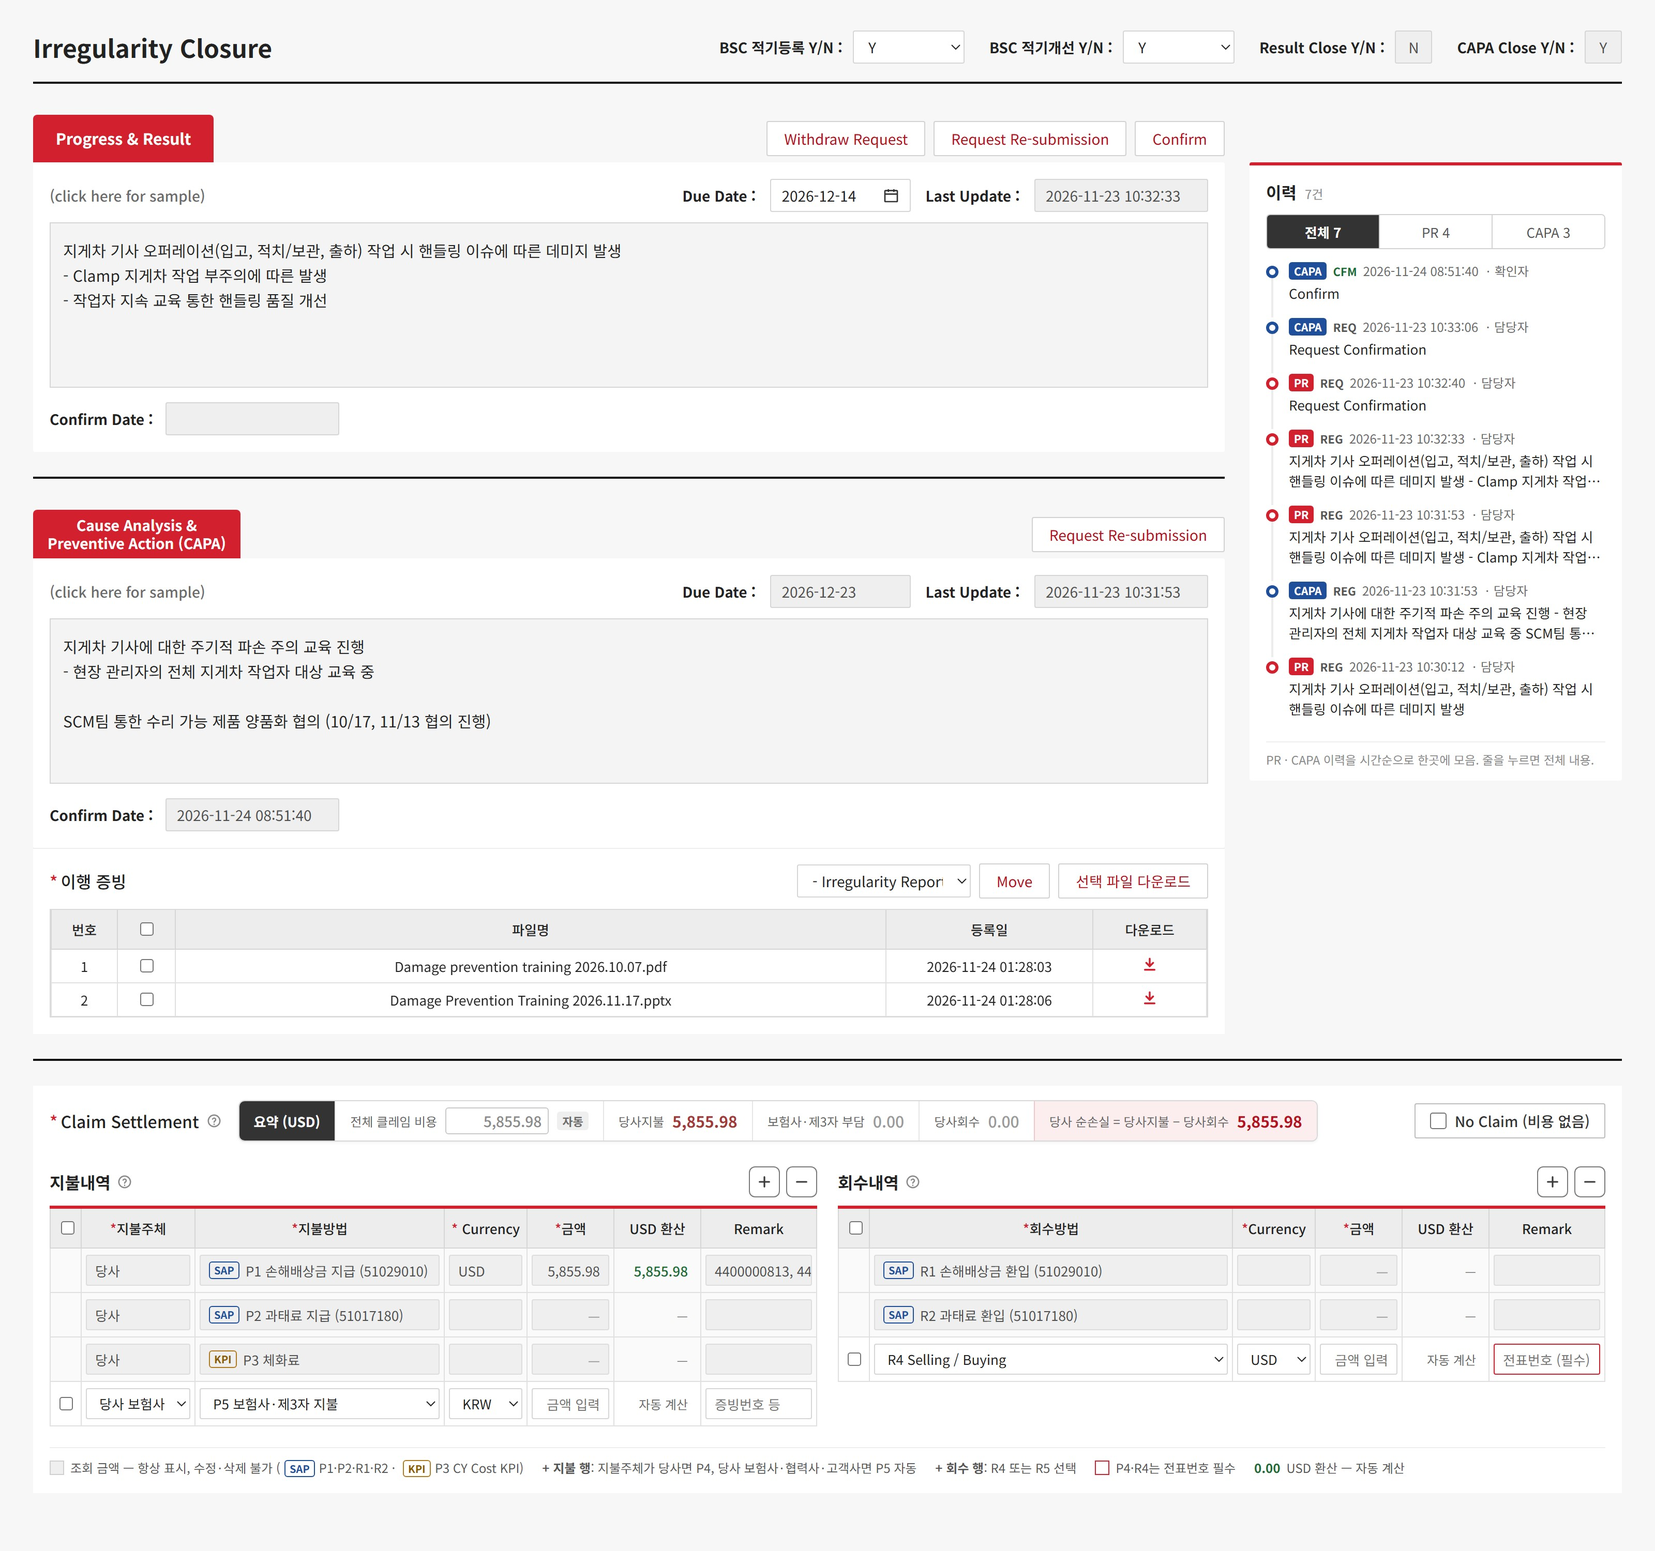
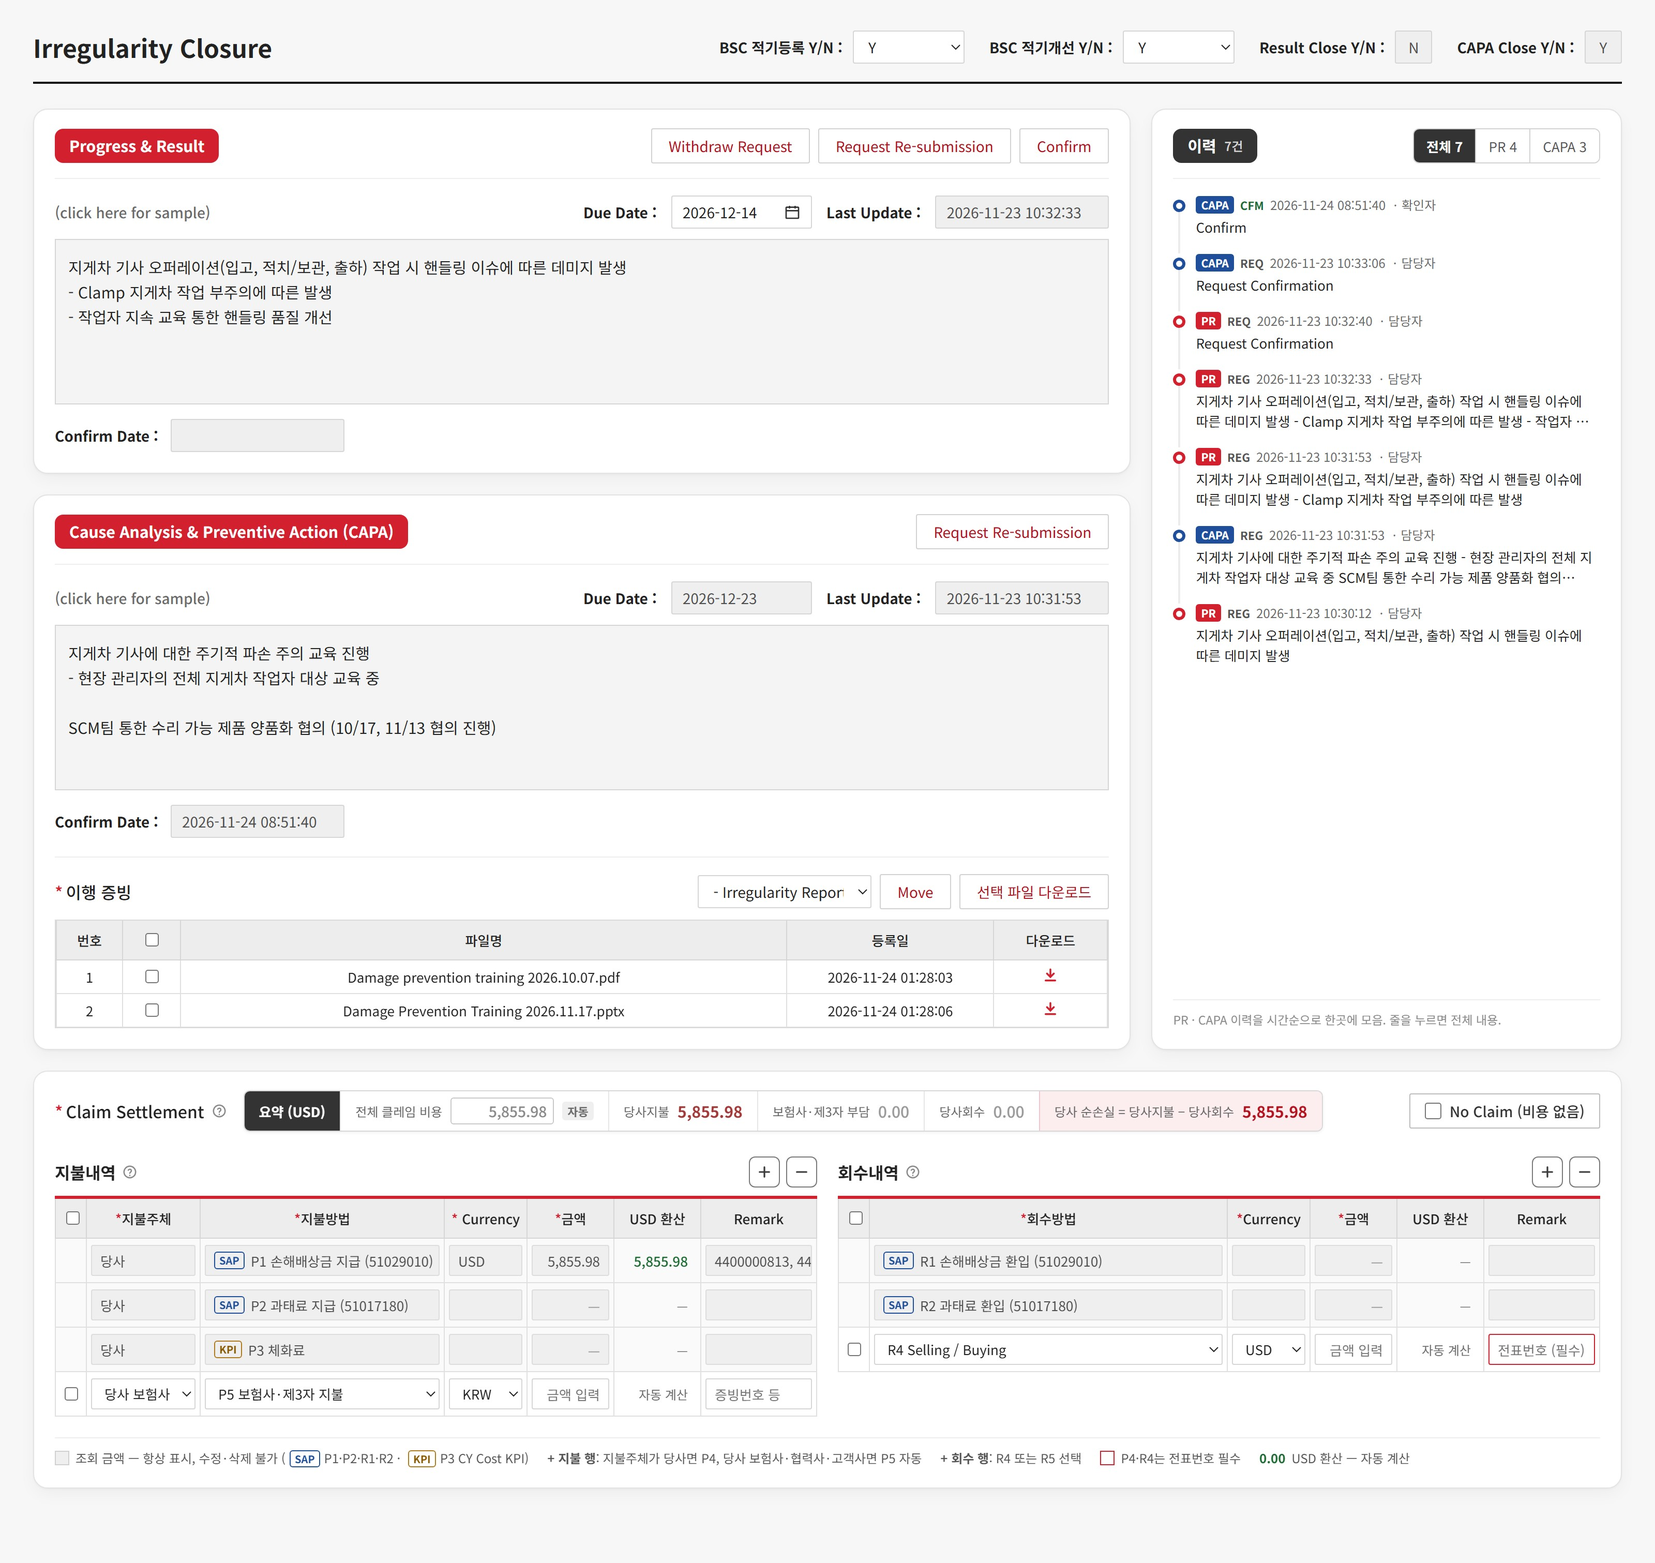
qms-claim-closure sidebar: rounded zones, 7:3 / 6:4 ratio, history not floating

diff --git a/share/qms-claim-closure-sidebar.html b/share/qms-claim-closure-sidebar.html
@@ -75,38 +75,39 @@ a{color:#B3121F}a:hover{color:#7E0C16}
 .sw{display:inline-block;width:14px;height:14px;border:1px solid #D0D0D0;vertical-align:-2px;margin-right:6px}
 
 
-.sbl{display:grid;grid-template-columns:minmax(0,1fr) 360px;gap:24px;align-items:start;padding:30px 0 0}
-.mainc{min-width:0}
-.colhead{display:flex;flex-wrap:wrap;align-items:flex-end;justify-content:space-between;gap:8px 10px;min-height:46px}
-.colhead .btns{display:flex;flex-wrap:wrap;justify-content:flex-end;gap:8px}
-.colhead .btn{margin-bottom:6px}
-.confirm{display:flex;align-items:center;gap:12px;margin:14px 0 0}
 .flow{display:flex;flex-direction:column}
-.csw{margin-top:24px;padding-top:24px;border-top:2px solid #111}
-.flow.cs-top .csw{order:-1;margin-top:30px;padding-top:0;border-top:0}
-.flow.cs-top .sbl{margin-top:24px;border-top:2px solid #111}
-.pos{display:inline-flex;align-items:center;gap:8px;margin-top:12px;font-size:13px;color:#555}
-.pos .segb{display:inline-flex;border:1px solid #C9C9C9;border-radius:4px;overflow:hidden}
-.pos button{font:inherit;font-size:13px;height:32px;padding:0 14px;border:0;background:#fff;color:#444;cursor:pointer}
-.pos button+button{border-left:1px solid #C9C9C9}.pos button[aria-pressed="true"]{background:#333;color:#fff;font-weight:700}
-.pos button:focus-visible{outline:2px solid #1F4E9A;outline-offset:-2px}
-.capasec{margin-top:24px;padding-top:30px;border-top:2px solid #111}
-.evsec{background:#fff;padding:14px 16px 16px;border-top:1px solid #EEEEEE}
+.sbl{display:grid;grid-template-columns:minmax(0,7fr) minmax(0,3fr);gap:20px;align-items:stretch;margin-top:24px}
+.flow.r64 .sbl{grid-template-columns:minmax(0,6fr) minmax(0,4fr)}
+.mainc{display:flex;flex-direction:column;gap:20px;min-width:0}
+.csw{margin-top:20px}
+.flow.cs-top .csw{order:-1;margin-top:24px}
+.flow.cs-top .sbl{margin-top:20px}
+.zone{background:#fff;border:1px solid #E3E3E3;border-radius:14px;padding:18px 20px 20px;box-shadow:0 1px 2px rgba(0,0,0,0.04),0 6px 16px rgba(0,0,0,0.04);min-width:0}
+.zhead{display:flex;flex-wrap:wrap;align-items:center;justify-content:space-between;gap:8px 10px;padding-bottom:14px;margin-bottom:16px;border-bottom:1px solid #EEEEEE}
+.zhead .btns{display:flex;flex-wrap:wrap;justify-content:flex-end;gap:8px}
+.zt{display:inline-flex;align-items:center;gap:8px;font-size:15px;font-weight:700;color:#fff;background:#D3202F;border-radius:8px;padding:7px 14px;line-height:1.25}
+.zt.dark{background:#333}.zt .cnt{font-size:12px;font-weight:500;opacity:.8}
+.zone .panel{padding:0;background:none}
+.zone section[aria-label="Claim Settlement"]{padding:0 !important;background:none !important;border:0 !important}
+.confirm{display:flex;align-items:center;gap:12px;margin:14px 0 0}
+.evsec{margin-top:18px;padding-top:16px;border-top:1px solid #EEEEEE}
 .evhead{display:flex;flex-wrap:wrap;align-items:center;justify-content:space-between;gap:8px 12px;margin-bottom:10px}
 .evbox{max-height:var(--ev-h,112px);overflow-y:auto;border:1px solid #DADADA}
 .evbox .grid{border:0}.evbox .grid th{position:sticky;top:0;z-index:1}
 .evbox .grid td:nth-child(3){white-space:nowrap;overflow:hidden;text-overflow:ellipsis}
-.side{position:sticky;top:52px;align-self:start;padding-top:46px}
-.sidecard{background:#fff;border-top:3px solid #D3202F;border-radius:2px;padding:14px 16px 12px;display:flex;flex-direction:column;max-height:calc(100vh - 120px)}
-.sidehead{display:flex;align-items:baseline;gap:8px;margin-bottom:10px}
-.sidehead h2{margin:0;font-size:16px;font-weight:700}.sidehead .cnt{font-size:12px;color:#8A8A8A}
-.seg{display:flex;border:1px solid #D2D2D2;border-radius:4px;overflow:hidden;margin-bottom:12px}
-.seg button{flex:1;font:inherit;font-size:13px;height:32px;border:0;background:#fff;color:#555;cursor:pointer}
+.pos{display:inline-flex;align-items:center;gap:8px;margin:12px 16px 0 0;font-size:13px;color:#555}
+.pos .segb{display:inline-flex;border:1px solid #C9C9C9;border-radius:4px;overflow:hidden}
+.pos button{font:inherit;font-size:13px;height:32px;padding:0 14px;border:0;background:#fff;color:#444;cursor:pointer}
+.pos button+button{border-left:1px solid #C9C9C9}.pos button[aria-pressed="true"]{background:#333;color:#fff;font-weight:700}
+.pos button:focus-visible{outline:2px solid #1F4E9A;outline-offset:-2px}
+.side{display:flex;flex-direction:column}
+.seg{display:flex;border:1px solid #D2D2D2;border-radius:6px;overflow:hidden}
+.seg button{font:inherit;font-size:13px;height:32px;padding:0 12px;border:0;background:#fff;color:#555;cursor:pointer;white-space:nowrap}
 .seg button+button{border-left:1px solid #D2D2D2}
 .seg button[aria-pressed="true"]{background:#333;color:#fff;font-weight:700}
 .seg button:focus-visible{outline:2px solid #1F4E9A;outline-offset:-2px}
-.tl{list-style:none;margin:0;padding:0 2px 0 0;overflow-y:auto;flex:1 1 auto;min-height:0}
-.ti{position:relative;padding:0 0 14px 22px;cursor:pointer}
+.tl{list-style:none;margin:0;padding:0 4px 0 0;overflow-y:auto;flex:1 1 0px;height:0;min-height:240px}
+.ti{position:relative;padding:0 0 16px 22px;cursor:pointer}
 .ti::before{content:"";position:absolute;left:5px;top:12px;bottom:0;width:2px;background:#ECECEC}
 .ti:last-child::before{display:none}
 .ti .dot{position:absolute;left:0;top:4px;width:12px;height:12px;border-radius:50%;background:#fff;border:3px solid #D3202F;box-sizing:border-box}
@@ -119,18 +120,17 @@ a{color:#B3121F}a:hover{color:#7E0C16}
 .who::before{content:"· "}
 .tx{margin:3px 0 0;font-size:13px;line-height:1.5;color:#222;display:-webkit-box;-webkit-line-clamp:2;-webkit-box-orient:vertical;overflow:hidden}
 .ti.open .tx{display:block}
-.ti:hover .tx{color:#000}
 .ti[hidden]{display:none}
-.sidenote{margin:8px 0 0;padding-top:8px;border-top:1px solid #EEEEEE;font-size:11.5px;color:#8A8A8A}
-@media (max-width:1100px){.sbl{grid-template-columns:minmax(0,1fr)}.side{position:static;padding-top:0}.sidecard{max-height:none}}
+.sidenote{margin:10px 0 0;padding-top:10px;border-top:1px solid #EEEEEE;font-size:11.5px;color:#8A8A8A}
+@media (max-width:1100px){.sbl,.flow.r64 .sbl{grid-template-columns:minmax(0,1fr)}.tl{flex:none;height:auto;min-height:0;max-height:420px}}
 
 </style>
 </head>
 <body>
 <div class="lab-bar"><b>QMS 사고 비용 정산 설계안</b><span>배치 검토용 목업 · 이력 필터만 동작</span><a href="/share/qms-claim">데이터 설계</a><a href="/share/qms-claim-screens">입력 화면 시안</a><a href="/share/qms-claim-closure">Closure 화면 개선안</a><a href="/share/qms-claim-closure-layout">좌우 배치안</a><a href="/share/qms-claim-closure-sidebar" aria-current="page">이력 사이드바안</a><a href="/share/qms-claim-closure-options">배치 제안</a></div>
-<div class="part"><h2 class="big">이력 사이드바안 — 배치 제안 C</h2><p><b>사이드바 레이아웃</b>: 왼쪽 본문은 PR → CAPA → 이행 증빙, 오른쪽 사이드바는 PR · CAPA 이력을 시간순으로 모은 통합 이력 (스크롤해도 따라옴, PR / CAPA 필터). 입력 칸과 이력이 나란히 있지 않으니 높이를 맞출 필요가 없고, 이행 증빙이 늘어도 구조가 깨지지 않습니다. <b>Claim Settlement는 전체 폭</b>으로 빼서 지불·회수 표를 한 줄에 놓고, 맨 아래(기본)와 맨 위 중 골라 볼 수 있습니다.</p>
-<div class="pos" role="group" aria-label="Claim Settlement 위치"><span>Claim Settlement 위치</span><span class="segb"><button type="button" data-pos="bottom" aria-pressed="true">맨 아래</button><button type="button" data-pos="top" aria-pressed="false">맨 위</button></span></div>
-<div class="dl"><a href="/share/files/qms-claim-closure-sidebar.jpg" download><svg width="14" height="14" viewBox="0 0 24 24" fill="none" stroke="currentColor" stroke-width="2" aria-hidden="true"><path d="M12 3v12m0 0-5-5m5 5 5-5M4 19h16"/></svg>JPG (맨 아래)</a><a href="/share/files/qms-claim-closure-sidebar-top.jpg" download><svg width="14" height="14" viewBox="0 0 24 24" fill="none" stroke="currentColor" stroke-width="2" aria-hidden="true"><path d="M12 3v12m0 0-5-5m5 5 5-5M4 19h16"/></svg>JPG (맨 위)</a></div></div>
+<div class="part"><h2 class="big">이력 사이드바안 — 배치 제안 C</h2><p><b>사이드바 레이아웃</b>: 왼쪽 본문은 PR → CAPA → 이행 증빙, 오른쪽 사이드바는 PR · CAPA 이력을 시간순으로 모은 통합 이력 (PR / CAPA 필터). 구역마다 둥근 상자로 나누고, 본문 : 이력 폭은 7 : 3 (6 : 4로 바꿔 볼 수 있음). 이력 상자는 본문 높이에 맞춰 늘어나고 넘치면 안에서 스크롤. 입력 칸과 이력이 나란히 있지 않으니 높이를 맞출 필요가 없고, 이행 증빙이 늘어도 구조가 깨지지 않습니다. <b>Claim Settlement는 전체 폭</b>으로 빼서 지불·회수 표를 한 줄에 놓고, 맨 아래(기본)와 맨 위 중 골라 볼 수 있습니다.</p>
+<div class="pos" role="group" aria-label="본문과 이력 비율" data-cls="r64"><span>본문 : 이력</span><span class="segb"><button type="button" data-on="0" aria-pressed="true">7 : 3</button><button type="button" data-on="1" aria-pressed="false">6 : 4</button></span></div><div class="pos" role="group" aria-label="Claim Settlement 위치" data-cls="cs-top"><span>Claim Settlement 위치</span><span class="segb"><button type="button" data-pos="bottom" data-on="0" aria-pressed="true">맨 아래</button><button type="button" data-pos="top" data-on="1" aria-pressed="false">맨 위</button></span></div>
+<div class="dl"><a href="/share/files/qms-claim-closure-sidebar.jpg" download><svg width="14" height="14" viewBox="0 0 24 24" fill="none" stroke="currentColor" stroke-width="2" aria-hidden="true"><path d="M12 3v12m0 0-5-5m5 5 5-5M4 19h16"/></svg>JPG (맨 아래)</a><a href="/share/files/qms-claim-closure-sidebar-top.jpg" download><svg width="14" height="14" viewBox="0 0 24 24" fill="none" stroke="currentColor" stroke-width="2" aria-hidden="true"><path d="M12 3v12m0 0-5-5m5 5 5-5M4 19h16"/></svg>JPG (맨 위)</a><a href="/share/files/qms-claim-closure-sidebar-64.jpg" download><svg width="14" height="14" viewBox="0 0 24 24" fill="none" stroke="currentColor" stroke-width="2" aria-hidden="true"><path d="M12 3v12m0 0-5-5m5 5 5-5M4 19h16"/></svg>JPG (6 : 4)</a></div></div>
 <div style="box-sizing: border-box; width: 100%; max-width: 1600px; margin: 0 auto; padding: 28px 32px 56px; font-family: 'Noto Sans KR', 'Malgun Gothic', sans-serif; color: #222; background: #F7F7F7;">
 <header style="display: flex; flex-wrap: wrap; align-items: center; justify-content: space-between; gap: 12px 28px; padding-bottom: 16px; border-bottom: 2px solid #111;">
 <h1 style="margin: 0; font-size: 24px; font-weight: 700;">Irregularity Closure</h1>
@@ -144,8 +144,8 @@ a{color:#B3121F}a:hover{color:#7E0C16}
 <div class="flow">
 <div class="sbl">
 <div class="mainc">
-<section aria-label="Progress and Result">
-<div class="colhead"><span class="tab">Progress &amp; Result</span>
+<section aria-label="Progress and Result" class="zone">
+<div class="zhead"><span class="zt">Progress &amp; Result</span>
 <div class="btns"><button class="btn" type="button">Withdraw Request</button><button class="btn" type="button">Request Re-submission</button><button class="btn" type="button">Confirm</button></div></div>
 <div class="panel">
 <div style="display: flex; flex-wrap: wrap; align-items: center; justify-content: space-between; gap: 10px; margin-bottom: 10px;">
@@ -161,8 +161,8 @@ a{color:#B3121F}a:hover{color:#7E0C16}
 <div class="confirm"><span class="lbl">Confirm Date :</span><span class="fld ro" style="width: 168px;"></span></div>
 </div>
 </section>
-<section aria-label="Cause Analysis and Preventive Action" class="capasec">
-<div class="colhead"><span class="tab" style="font-size: 14px; padding: 6px 14px;">Cause Analysis &amp;<br>Preventive Action (CAPA)</span>
+<section aria-label="Cause Analysis and Preventive Action" class="zone">
+<div class="zhead"><span class="zt">Cause Analysis &amp; Preventive Action (CAPA)</span>
 <div class="btns"><button class="btn" type="button">Request Re-submission</button></div></div>
 <div class="panel">
 <div style="display: flex; flex-wrap: wrap; align-items: center; justify-content: space-between; gap: 10px; margin-bottom: 10px;">
@@ -196,18 +196,16 @@ SCM팀 통한 수리 가능 제품 양품화 협의 (10/17, 11/13 협의 진행)
 </div>
 </section>
 </div>
-<aside class="side" aria-label="이력">
-<div class="sidecard">
-<div class="sidehead"><h2>이력</h2><span class="cnt">7건</span></div>
+<aside class="zone side" aria-label="이력">
+<div class="zhead"><span class="zt dark">이력<span class="cnt">7건</span></span>
 <div class="seg" role="group" aria-label="이력 필터">
 <button type="button" data-f="all" aria-pressed="true">전체 7</button><button type="button" data-f="PR" aria-pressed="false">PR 4</button><button type="button" data-f="CAPA" aria-pressed="false">CAPA 3</button>
-</div>
+</div></div>
 <ol class="tl"><li class="ti capa" data-k="CAPA"><span class="dot" aria-hidden="true"></span><div class="tmeta"><span class="tg capa">CAPA</span><span class="code c-cfm">CFM</span><time>2026-11-24 08:51:40</time><span class="who">확인자</span></div><p class="tx" title="Confirm">Confirm</p></li><li class="ti capa" data-k="CAPA"><span class="dot" aria-hidden="true"></span><div class="tmeta"><span class="tg capa">CAPA</span><span class="code c-req">REQ</span><time>2026-11-23 10:33:06</time><span class="who">담당자</span></div><p class="tx" title="Request Confirmation">Request Confirmation</p></li><li class="ti pr" data-k="PR"><span class="dot" aria-hidden="true"></span><div class="tmeta"><span class="tg pr">PR</span><span class="code c-req">REQ</span><time>2026-11-23 10:32:40</time><span class="who">담당자</span></div><p class="tx" title="Request Confirmation">Request Confirmation</p></li><li class="ti pr" data-k="PR"><span class="dot" aria-hidden="true"></span><div class="tmeta"><span class="tg pr">PR</span><span class="code c-reg">REG</span><time>2026-11-23 10:32:33</time><span class="who">담당자</span></div><p class="tx" title="지게차 기사 오퍼레이션(입고, 적치/보관, 출하) 작업 시 핸들링 이슈에 따른 데미지 발생 - Clamp 지게차 작업 부주의에 따른 발생 - 작업자 지속 교육 통한 핸들링 품질 개선">지게차 기사 오퍼레이션(입고, 적치/보관, 출하) 작업 시 핸들링 이슈에 따른 데미지 발생 - Clamp 지게차 작업 부주의에 따른 발생 - 작업자 지속 교육 통한 핸들링 품질 개선</p></li><li class="ti pr" data-k="PR"><span class="dot" aria-hidden="true"></span><div class="tmeta"><span class="tg pr">PR</span><span class="code c-reg">REG</span><time>2026-11-23 10:31:53</time><span class="who">담당자</span></div><p class="tx" title="지게차 기사 오퍼레이션(입고, 적치/보관, 출하) 작업 시 핸들링 이슈에 따른 데미지 발생 - Clamp 지게차 작업 부주의에 따른 발생">지게차 기사 오퍼레이션(입고, 적치/보관, 출하) 작업 시 핸들링 이슈에 따른 데미지 발생 - Clamp 지게차 작업 부주의에 따른 발생</p></li><li class="ti capa" data-k="CAPA"><span class="dot" aria-hidden="true"></span><div class="tmeta"><span class="tg capa">CAPA</span><span class="code c-reg">REG</span><time>2026-11-23 10:31:53</time><span class="who">담당자</span></div><p class="tx" title="지게차 기사에 대한 주기적 파손 주의 교육 진행 - 현장 관리자의 전체 지게차 작업자 대상 교육 중 SCM팀 통한 수리 가능 제품 양품화 협의 (10/17, 11/13 협의 진행)">지게차 기사에 대한 주기적 파손 주의 교육 진행 - 현장 관리자의 전체 지게차 작업자 대상 교육 중 SCM팀 통한 수리 가능 제품 양품화 협의 (10/17, 11/13 협의 진행)</p></li><li class="ti pr" data-k="PR"><span class="dot" aria-hidden="true"></span><div class="tmeta"><span class="tg pr">PR</span><span class="code c-reg">REG</span><time>2026-11-23 10:30:12</time><span class="who">담당자</span></div><p class="tx" title="지게차 기사 오퍼레이션(입고, 적치/보관, 출하) 작업 시 핸들링 이슈에 따른 데미지 발생">지게차 기사 오퍼레이션(입고, 적치/보관, 출하) 작업 시 핸들링 이슈에 따른 데미지 발생</p></li></ol>
 <p class="sidenote">PR · CAPA 이력을 시간순으로 한곳에 모음. 줄을 누르면 전체 내용.</p>
-</div>
 </aside>
 </div>
-<div class="csw"><section aria-label="Claim Settlement" style="background: #fff; padding: 14px 16px 16px;">
+<div class="csw zone"><section aria-label="Claim Settlement" style="background: #fff; padding: 14px 16px 16px; border-top: 1px solid #EEEEEE;">
 <div style="display: flex; flex-wrap: wrap; align-items: center; gap: 12px 16px; margin-bottom: 10px;">
 <div style="display: flex; align-items: center; gap: 8px;">
 <h2 class="cs-h"><span class="req">*</span>Claim Settlement<svg width="15" height="15" viewBox="0 0 24 24" fill="none" stroke="#8A8A8A" stroke-width="2" stroke-linecap="round" aria-hidden="true" style="margin-left: 4px;"><circle cx="12" cy="12" r="9"></circle><path d="M9.6 9.3a2.5 2.5 0 0 1 4.8 1c0 1.7-2.4 2.1-2.4 3.7"></path><path d="M12 17.2v.3"></path></svg></h2>
@@ -371,11 +369,12 @@ SCM팀 통한 수리 가능 제품 양품화 협의 (10/17, 11/13 협의 진행)
   if (document.fonts && document.fonts.ready) document.fonts.ready.then(fit);
   if (document.fonts && document.fonts.addEventListener) document.fonts.addEventListener('loadingdone', fit);
   window.addEventListener('load', fit);
-  var pos = document.querySelector('.pos');
-  if (pos) pos.addEventListener('click', function (e) {
-    var b = e.target.closest('button'); if (!b) return;
-    pos.querySelectorAll('button').forEach(function (x) { x.setAttribute('aria-pressed', String(x === b)); });
-    document.querySelector('.flow').classList.toggle('cs-top', b.dataset.pos === 'top');
+  document.querySelectorAll('.pos').forEach(function (g) {
+    g.addEventListener('click', function (e) {
+      var b = e.target.closest('button'); if (!b) return;
+      g.querySelectorAll('button').forEach(function (x) { x.setAttribute('aria-pressed', String(x === b)); });
+      document.querySelector('.flow').classList.toggle(g.dataset.cls, b.dataset.on === '1');
+    });
   });
   var seg = document.querySelector('.seg');
   seg.addEventListener('click', function (e) {
